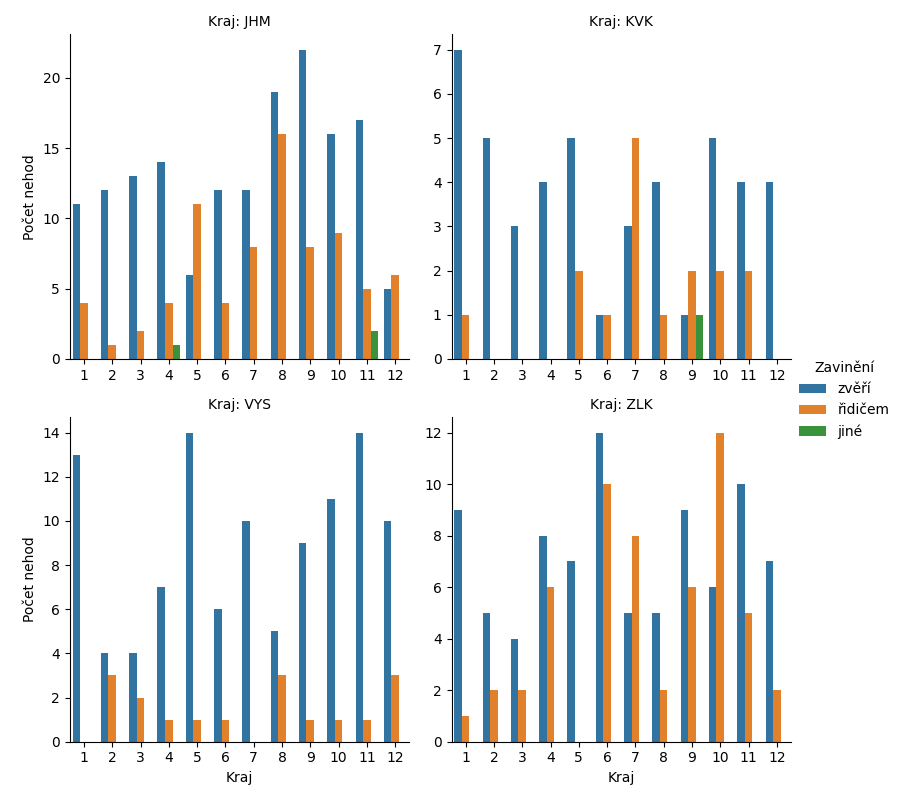
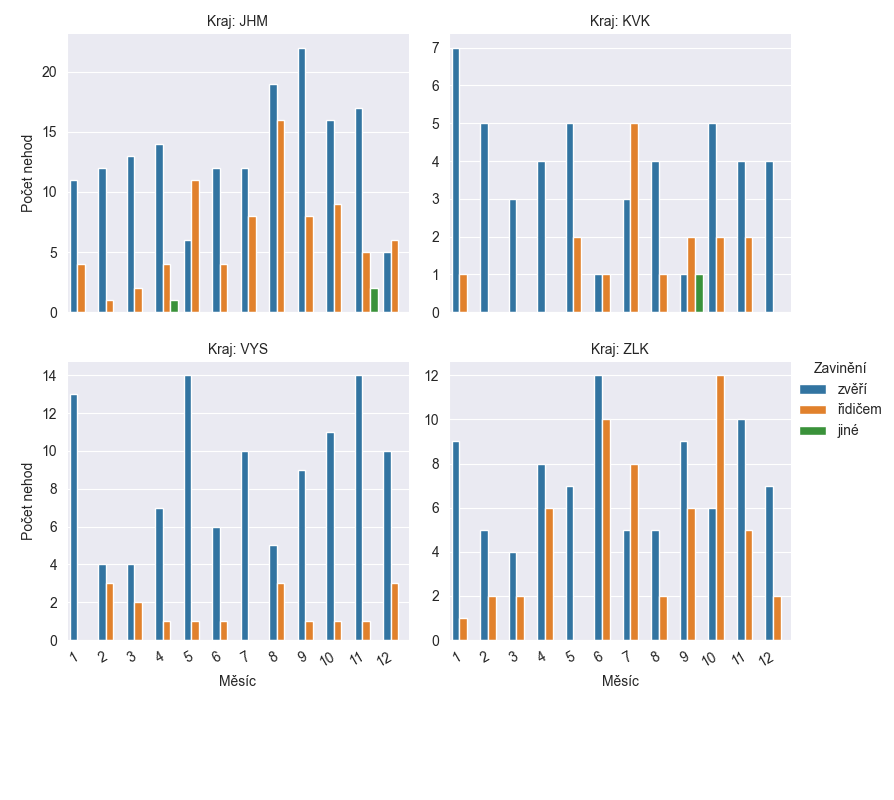
task 3 done

diff --git a/part2/analysis.py b/part2/analysis.py
@@ -5,7 +5,8 @@ import pandas as pd
 import seaborn as sns
 import numpy as np
 import os
-
+import matplotlib.dates as mdates
+import datetime
 # muzete pridat libovolnou zakladni knihovnu ci knihovnu predstavenou na prednaskach
 # dalsi knihovny pak na dotaz
 
@@ -44,34 +45,30 @@ def get_dataframe(filename: str, verbose: bool = False) -> pd.DataFrame:
 
 def plot_roadtype(df: pd.DataFrame, fig_location: str = None,
                   show_figure: bool = False):
-    
-    #dataframe pro 4 vybrane regiony
-    p21df = df.loc[df["region"].isin(["KVK", "VYS", "JHM", "ZLK"]),  ["region", "p21"]]
+
+    # dataframe pro 4 vybrane regiony
+    p21df = df.loc[df["region"].isin(["KVK", "VYS", "JHM", "ZLK"]),  [
+        "region", "p21"]]
     graph_titles = ["Jiná komunikace", "Dvoupruhová komunikace", "Třípruhová komunikace",
                     "Čtyřpruhová komunikace", "Čtyřpruhová komunikace", "Vícepruhová komunikace", "Rychlostní komunikace"]
-    #pomocny sloupec pro slouceni 4 pruhovych komunikaci
+    # pomocny sloupec pro slouceni 4 pruhovych komunikaci
     p21df["road_type"] = p21df.apply(lambda row: graph_titles[row.p21], axis=1)
 
     sns.set_style("darkgrid")
-    g = sns.FacetGrid(p21df, col="road_type", col_wrap=3,  margin_titles=True, sharey=False, sharex=False, legend_out=True, palette="deep", hue="region", hue_order=["KVK", "VYS", "JHM", "ZLK"])
+    g = sns.FacetGrid(p21df, col="road_type", col_wrap=3,  margin_titles=True, sharey=False, sharex=False,
+                      legend_out=True, palette="deep", hue="region", hue_order=["KVK", "VYS", "JHM", "ZLK"])
     g.map(sns.countplot, "region", order=["KVK", "VYS", "JHM", "ZLK"])
-    plt.xticks=[]
+    plt.xticks = []
+    
     g.add_legend(title="Kraje")
-    g.set_xticklabels= []
+    g.set_xticklabels = []
     g.set(xticks=[])
-    g.set_titles(col_template = '{col_name}')
+    g.set_titles(col_template='{col_name}')
     g.set_ylabels("Počet nehod")
     g.set_xlabels("Kraj")
     g.fig.suptitle('Druhy silnic')
     g.fig.subplots_adjust(top=0.9)
-
-    if fig_location:
-        dir_path = os.path.dirname(fig_location)
-        if(dir_path):
-            os.makedirs(dir_path, exist_ok=True)
-        plt.savefig(fig_location)
-    if show_figure:
-        plt.show()
+    save_and_show(fig_location=fig_location, show_figure=show_figure)
     plt.close()
 
 # Ukol3: zavinění zvěří
@@ -79,27 +76,26 @@ def plot_roadtype(df: pd.DataFrame, fig_location: str = None,
 
 def plot_animals(df: pd.DataFrame, fig_location: str = None,
                  show_figure: bool = False):
-    #nehody ze 4 regionu, ktere byly ovlivneny zveri a nejsou v roce 2021
-    filtered_df = df.loc[(df["region"].isin(["KVK", "VYS", "JHM", "ZLK"]))&(df["p58"]==5)&(df["date"].dt.year!=2021),  ["date", "p10", "region"]]
-    #pomocny sloupec pro konvertovani hodnoty zavineni nehody
-    filtered_df["caused_by"] = filtered_df.apply(lambda row: "řidičem" if row.p10 in [1, 2] else ("zvěří" if row.p10 == 4 else "jiné") , axis=1) 
-    grouped_by_month = filtered_df.groupby(by=["region", filtered_df.date.dt.month, "caused_by"]).size().reset_index(name="count")
-    g = sns.catplot(data = grouped_by_month, x="date", y = "count", col="region", hue="caused_by", kind="bar",col_wrap=2, margin_titles=True, sharey=False, sharex=False, height=4)
+    # nehody ze 4 regionu, ktere byly ovlivneny zveri a nejsou v roce 2021
+    filtered_df = df.loc[(df["region"].isin(["KVK", "VYS", "JHM", "ZLK"])) & (
+        df["p58"] == 5) & (df["date"].dt.year != 2021),  ["date", "p10", "region"]]
+    # pomocny sloupec pro konvertovani hodnoty zavineni nehody
+    filtered_df["caused_by"] = filtered_df.apply(lambda row: "řidičem" if row.p10 in [
+                                                 1, 2] else ("zvěří" if row.p10 == 4 else "jiné"), axis=1)
+    grouped_by_month = filtered_df.groupby(
+        by=["region", filtered_df.date.dt.month, "caused_by"]).size().reset_index(name="count")
+    sns.set_style("darkgrid")
+    g = sns.catplot(data=grouped_by_month, x="date", y="count", col="region", hue="caused_by",
+                    kind="bar", col_wrap=2, margin_titles=True, sharey=False, sharex=False, height=4)
     g.set_ylabels("Počet nehod")
-    g.set_xlabels("Kraj")
+    g.set_xlabels("Měsíc")
     # g.add_legend(title="Zavinění")
     g._legend.set_title("Zavinění")
-    g.set_titles(col_template = 'Kraj: {col_name}')
-    if fig_location:
-        dir_path = os.path.dirname(fig_location)
-        if(dir_path):
-            os.makedirs(dir_path, exist_ok=True)
-        plt.savefig(fig_location)
-    if show_figure:
-        plt.show()
-    
-    plt.close()
+    g.figure.autofmt_xdate()
+    g.set_titles(col_template='Kraj: {col_name}')
+    save_and_show(fig_location=fig_location, show_figure=show_figure)
 
+    plt.close()
 
 
 # Ukol 4: Povětrnostní podmínky
@@ -107,7 +103,40 @@ def plot_animals(df: pd.DataFrame, fig_location: str = None,
 
 def plot_conditions(df: pd.DataFrame, fig_location: str = None,
                     show_figure: bool = False):
-    pass
+
+    filtered_df = df.loc[(df["region"].isin(["KVK", "VYS", "JHM", "ZLK"])) & (
+        df["p18"] != 0),  ["date", "p18", "region"]]
+    weather_str = ["Jiné", "Neztížené", "Mlha", "Na počátku deště",
+                   "Déšť", "Sněžení", "Náledí", "Nárazový vítr"]
+    filtered_df["p18"] = filtered_df.apply(
+        lambda row: weather_str[row.p18], axis=1)
+    table = pd.pivot_table(filtered_df, columns="p18", aggfunc="size", index=[
+                           "region", pd.Grouper(freq='M', key="date")]).stack(level=0).reset_index(name="count")
+    sns.set_style("darkgrid")
+    g = sns.relplot(data=table, kind="line", col="region", x="date",
+                    y="count", hue="p18", palette="deep", col_wrap=2, height=4, facet_kws={'sharey': True, 'sharex': False})
+    g.set_xlabels("Kraj")
+    g.set_ylabels("Počet nehod")
+    g._legend.set_title("Podmínky")
+    g.set(xlim=( datetime.date(2016,1,1), datetime.date(2020,1,1)))
+    g.set_titles(col_template='Kraj: {col_name}')
+    g.figure.autofmt_xdate()
+    
+    for ax in g.axes.flat:
+        ax.xaxis.set_major_formatter(mdates.DateFormatter('%m/%y'))
+    save_and_show(fig_location=fig_location, show_figure=show_figure)
+    
+    plt.close()
+
+
+def save_and_show(fig_location: str = None, show_figure: bool = False):
+    if fig_location:
+        dir_path = os.path.dirname(fig_location)
+        if(dir_path):
+            os.makedirs(dir_path, exist_ok=True)
+        plt.savefig(fig_location)
+    if show_figure:
+        plt.show()
 
 
 if __name__ == "__main__":
@@ -116,6 +145,6 @@ if __name__ == "__main__":
     # funkce.
     # tento soubor si stahnete sami, při testování pro hodnocení bude existovat
     df = get_dataframe("accidents.pkl.gz")
-    # plot_roadtype(df, fig_location="sdf/sdff/01_roadtype.png", show_figure=False)
+    plot_roadtype(df, fig_location="01_roadtype.png", show_figure=True)
     plot_animals(df, "02_animals.png", True)
-    # plot_conditions(df, "03_conditions.png", True)
+    plot_conditions(df, "03_conditions.png", True)
